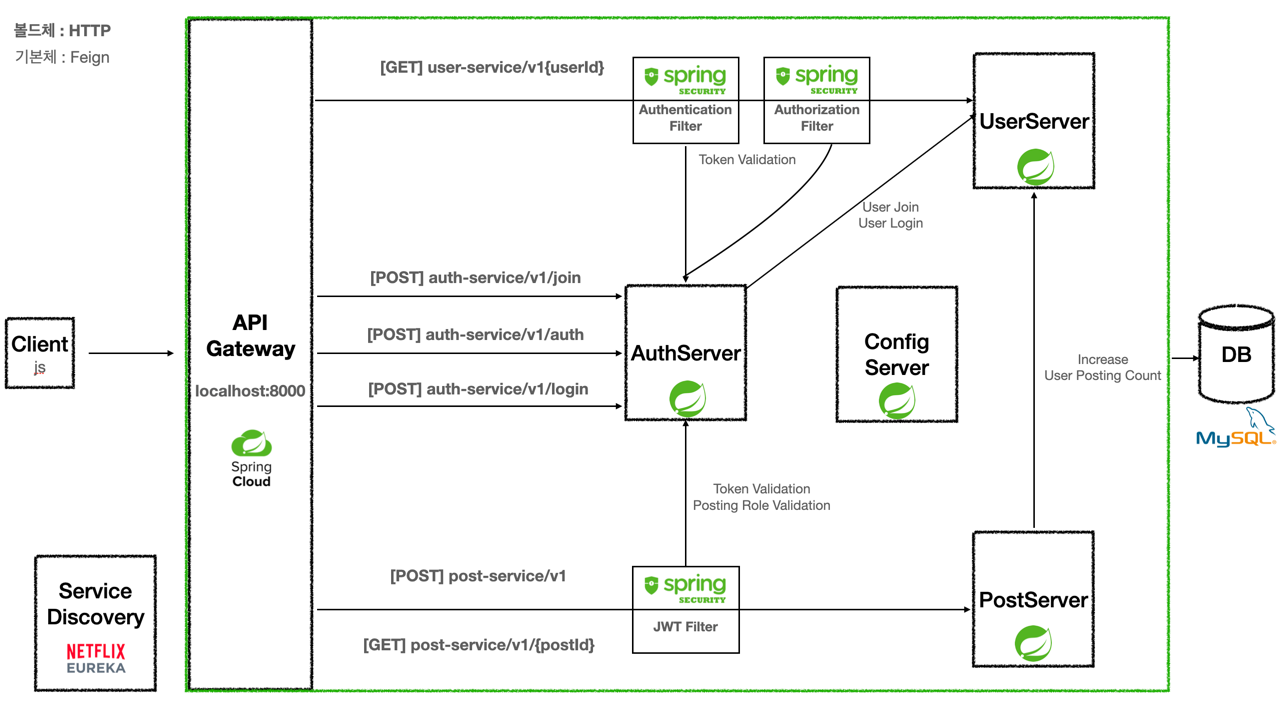
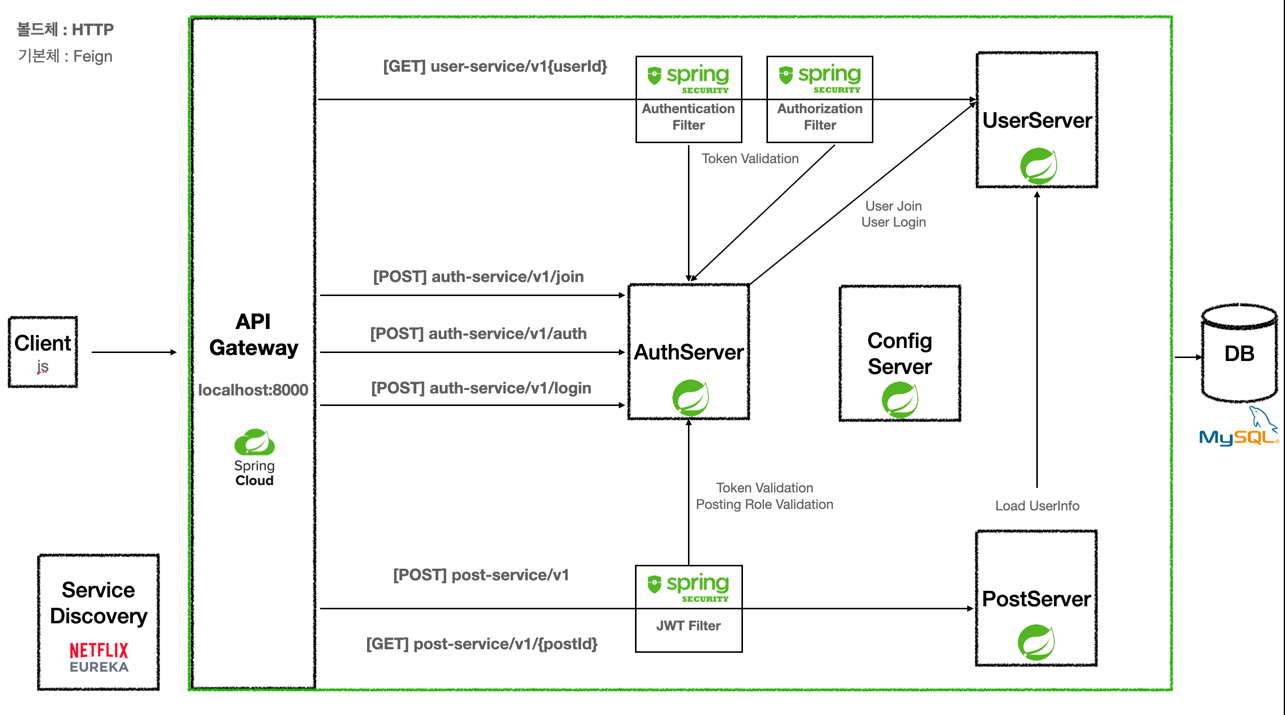
DOCS

diff --git a/diger-post-service/src/main/java/com/smilegate/digerpostservice/feign/UserFeign.java b/diger-post-service/src/main/java/com/smilegate/digerpostservice/feign/UserFeign.java
@@ -14,10 +14,4 @@ public interface UserFeign {
             @RequestHeader("Authorization") String token,
             @PathVariable Long userId
     );
-
-    @GetMapping("/v1/{loginId}")
-    UserResponse loadUserInfoByLoginId(
-            @RequestHeader("Authorization") String token,
-            @PathVariable String loginId
-    );
 }
